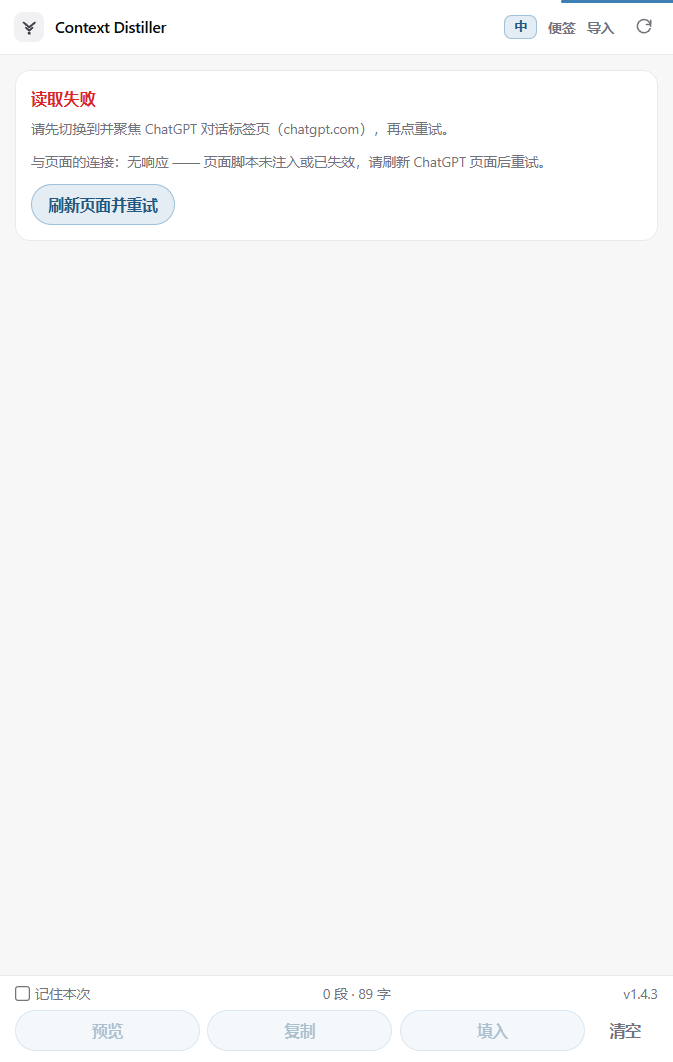
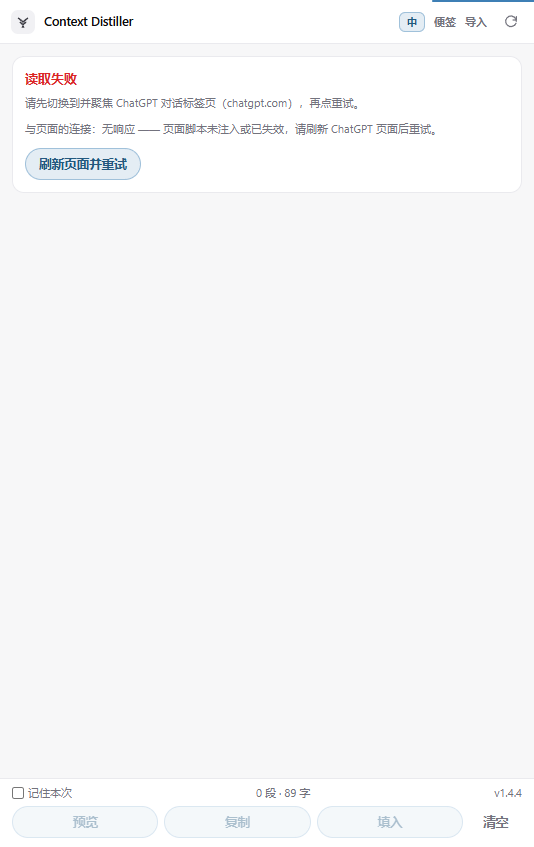
fix(ci,gate,docs): address handoff-review findings (v1.4.4)
Findings from the Codex read-only review of HANDOFF.md, all confirmed:

- CI never got past 'install pnpm': no version pinned. packageManager:
  pnpm@11.7.0 fixes the run.
- The gate's defer timeout still DROPPED background reads (skipped:true) —
  background reads now retry admission up to 3x with 4s gaps; only bounded
  exhaustion may skip, and foreground skips surface to the caller.
- Docs drift: HANDOFF claimed 'tag v1.4.3 synced' when no 1.4.1+ tags existed
  (v1.4.3 now tagged at its release commit d9fdd00); USAGE checklist still
  said retry 'never reloads the page'; CHANGELOG had no 1.4.1–1.4.3 entries
  (all added, honestly).
- Smoke flakiness root-caused while re-verifying: Edge/Chrome SILENTLY IGNORE
  a RELATIVE --load-extension path (pnpm smoke 1.4.4 regressed exactly there).
  The script now resolves the dir to absolute. Also Edge-first + headless=new
  + wider detection window; usage is .

80 unit tests green; CDP smoke RESULT PASS against the 1.4.4 build.

diff --git a/entrypoints/sidepanel/useDistiller.ts b/entrypoints/sidepanel/useDistiller.ts
@@ -737,15 +737,24 @@ export function useDistiller() {
       // READ GATE: every BACKEND read shares the user's ChatGPT rate-limit
       // budget with the page itself. v1.4.0 REFUSED reads inside the gap —
       // which silently dropped the partial→full upgrade and left users staring
-      // at a half-read list. Since v1.4.2 the gate DEFERS: background reads
-      // wait (bounded) for the gap, foreground reads only wait out an in-flight
-      // one. domOnly reads are pure DOM — never gated.
+      // at a half-read list. Since v1.4.2 the gate DEFERS; since v1.4.4 a
+      // DEFER TIMEOUT is retried for background reads (3 acquire attempts with
+      // breathing room) — a timeout must never silently DROP the upgrade /
+      // catch-up / full-ready read, only bounded exhaustion may. Foreground
+      // reads surface the skip to the caller (user can re-click).
       const backend = opts?.domOnly !== true;
       if (backend) {
-        const admitted = await readGate.acquire({
+        const maxWaitMs = opts?.background === true ? 25_000 : 6_000;
+        let admitted = await readGate.acquire({
           force: opts?.force === true,
-          maxWaitMs: opts?.background === true ? 25_000 : 6_000,
+          maxWaitMs,
         });
+        if (!admitted && opts?.background === true) {
+          for (let requeue = 0; requeue < 2 && !admitted; requeue += 1) {
+            await delay(4_000);
+            admitted = await readGate.acquire({ force: opts?.force === true, maxWaitMs });
+          }
+        }
         if (!admitted) {
           return { ok: false, count: 0, partial: false, skipped: true };
         }

diff --git a/CHANGELOG.md b/CHANGELOG.md
@@ -5,6 +5,52 @@ All notable changes to Context Distiller are documented here.
 The format is based on [Keep a Changelog](https://keepachangelog.com/en/1.1.0/),
 and this project adheres to [Semantic Versioning](https://semver.org/spec/v2.0.0.html).
 
+## [1.4.4] — 2026-10-23
+
+交接复核轮（Codex 只读核对发现的问题全部处理；除闸门重试外均为工程修正）。
+
+### Fixed
+- **CI**：`packageManager` 字段锁定 pnpm@11.7.0——此前 workflow 停在「安装 pnpm」一步（未指定版本）。
+- **闸门超时不再丢读**：后台读取 defer 超时后自动重试准入（最多 3 次、间隔 4s）。此前 25s 超时仍会以
+  `skipped` 静默丢弃升级/追读/全量就绪读——「等待式」只解决了等待，未解决超时后的兜底。
+
+### Changed
+- 冒烟脚本支持版本号作首参（`pnpm smoke 1.4.4`），并注明 Windows-only 运行前提。
+- 文档纠偏：USAGE 清单「重试不会重载页面」改为 1.4.1 恢复后的实际行为（重试=刷新页面 + 两个按钮分工）。
+
+### chore
+- 补齐 tag：v1.4.3 指向发布提交 d9fdd00（此前 1.4.1–1.4.3 均未打 tag）。
+
+## [1.4.3] — 2026-10-23
+
+### Added
+- **右上角刷新 = 强制加载**（用户指令）：跳过 30s 响应缓存与闸门间隔、直拉全量，点击瞬间弹提示；
+  底部「读取当前对话」保持温和读取（DOM 秒出 + 排队升级）。
+- `bypassCache` 全链路贯通（面板 → 协议 → 内容脚本 → 主世界桥），强制加载永不使用过期缓存。
+
+### Fixed
+- **定位守卫彻底移除**（回归 1.3 语义）：可见性检查在真实 ChatGPT UI 上仍持续误判、永久拒绝定位；
+  现在永远尝试，失败回原位。寻址预算提到 80 步 / 20s。
+
+## [1.4.2] — 2026-10-23
+
+### Fixed
+- **读取闸门改为推迟式**（`ReadGate.acquire`，语义有单测锁定）：v1.4.0 的拒绝式闸门静默丢弃
+  partial→full 升级读取，是「列表永远半截」的根因。
+- 主世界桥新增单条对话响应缓存（30s TTL）：升级读、轮询、追读窗口内秒出、零后端。
+- 定位寻址去掉过激的停滞熔断，回归时间上限走查。
+
+## [1.4.1] — 2026-10-23
+
+### Fixed
+- **恢复「重试 = 刷新页面」**（用户实证：对久开的 ChatGPT 页面最有效）；保留 45s 请求硬超时与轮询上限。
+- **挂起死锁免疫**：`sendToActiveTab` 全部请求 45s 硬超时——标签页死亡时 sendMessage 的 promise
+  永不返回，曾把读取闸门和加载管线永久占死（「后台一直在加载但界面不出现」）。
+- 后台读取（轮询/升级/合并）不再拨动前台 spinner：`busyReads` 计数驱动加载条，`loading` 状态专属前台读取。
+- 面板自动 ping 页面并在首屏/错误卡显示连接状态（ok / dead / nopage）——免开 DevTools 的自诊断。
+- 「未读取到消息」错误自带层数诊断（页面节点数 → 原始消息数 → 页面数据数）。
+- 版本号显示在面板首屏与底部。
+
 ## [1.4.0] — 2026-10-23
 
 读取策略整顿：这一版的主目标是**让插件不再和 ChatGPT 网页打架**——所有自动读取现在共享一个

diff --git a/docs/USAGE.md b/docs/USAGE.md
@@ -68,7 +68,9 @@
 
 - [ ] 读取：区分用户 / 助手；顺序正确；标题正确；**超长对话一次读全**（不用手动翻）。
 - [ ] 读取节流（v1.4）：生成回答期间不再频繁闪烁读取；轮询间隔明显变长（120s）且内容无变化时
-      列表完全静止（不重渲染、视口不动）；点「重试」**不会重载 ChatGPT 页面**。
+      列表完全静止（不重渲染、视口不动）。右上角刷新 = 强制加载（弹「强制加载」提示、直拉全量）；
+      底部按钮 = 温和读取（DOM 秒出 + 排队升级）；错误卡片上的「刷新页面并重试」会**重载 ChatGPT 页面**
+      （1.3 行为，用户实证该方式对久开页面最有效）。
 - [ ] 吸底（v1.4）：手动刷新且你本来在底部 → 落到最新；你正向上读旧消息时刷新 → 视口原地不动。
 - [ ] 粘贴导入（v1.4）：顶栏「导入」打开对话框；粘贴整段 → 选角色 → 加入一条；含「你：/AI：」
       前缀的文本出现「按前缀拆分」按钮，点击后拆成多条；导入行的编号**不可点**（无定位）；
